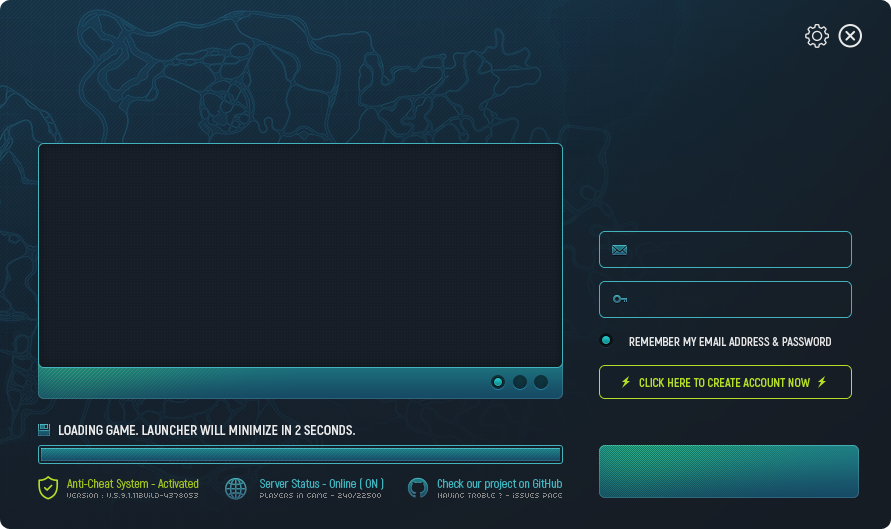
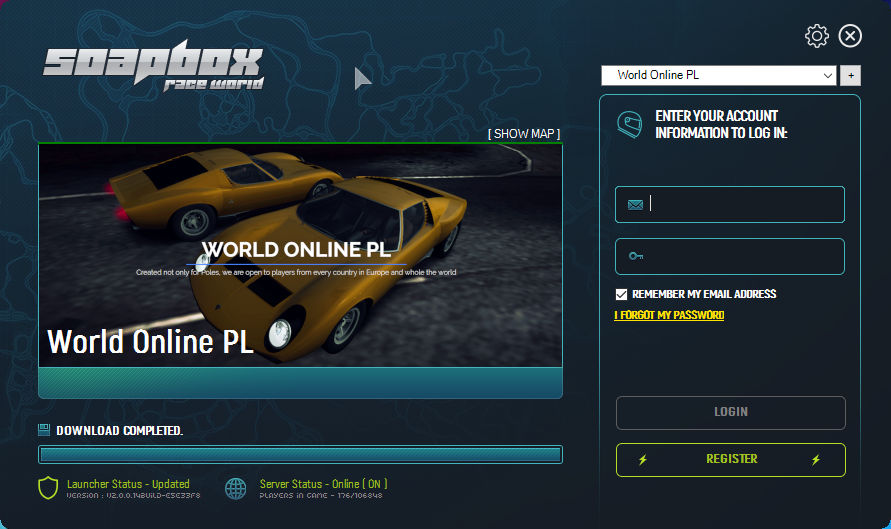
Updated screenshot

diff --git a/README.md b/README.md
@@ -9,5 +9,3 @@ A Rewrite of GameLauncher taken from Need For Speed: World
 
 ### Screenshot
 ![](screenshot.png)
-
-(Planned look, final release may vary)
